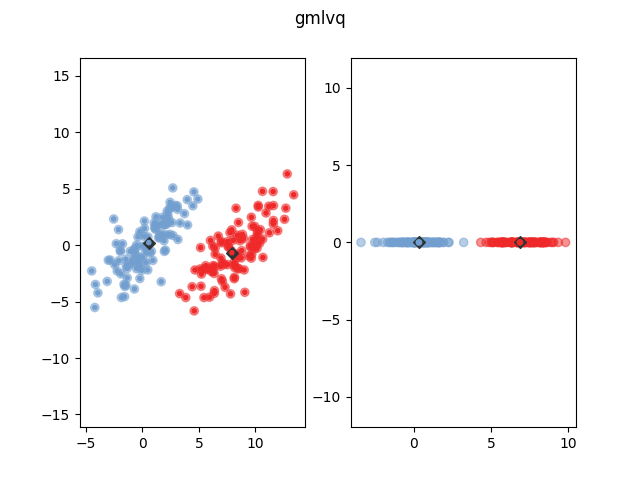
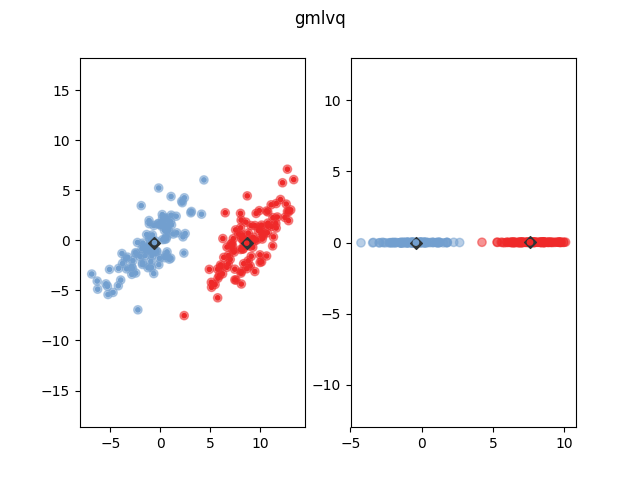
Pushing the docs for revision for branch: master, commit 86f0f8c551693e44304de9ff692452d2f7e50d50

diff --git a/searchindex.js b/searchindex.js
@@ -1,1 +1,1 @@
-Search.setIndex({docnames:["auto_examples/index","auto_examples/plot_benchmark","auto_examples/plot_glvq","auto_examples/plot_gmlvq","auto_examples/plot_grlvq","auto_examples/plot_lgmlvq","glvq","index","modules/generated/glvq.GlvqModel","modules/generated/glvq.GmlvqModel","modules/generated/glvq.GrlvqModel","modules/generated/glvq.LgmlvqModel","modules/glvqapi"],envversion:52,filenames:["auto_examples/index.rst","auto_examples/plot_benchmark.rst","auto_examples/plot_glvq.rst","auto_examples/plot_gmlvq.rst","auto_examples/plot_grlvq.rst","auto_examples/plot_lgmlvq.rst","glvq.rst","index.rst","modules/generated/glvq.GlvqModel.rst","modules/generated/glvq.GmlvqModel.rst","modules/generated/glvq.GrlvqModel.rst","modules/generated/glvq.LgmlvqModel.rst","modules/glvqapi.rst"],objects:{"glvq.GlvqModel":{__init__:[8,1,1,""],fit:[8,1,1,""],get_params:[8,1,1,""],predict:[8,1,1,""],score:[8,1,1,""],set_params:[8,1,1,""]},"glvq.GmlvqModel":{__init__:[9,1,1,""],fit:[9,1,1,""],get_params:[9,1,1,""],predict:[9,1,1,""],project:[9,1,1,""],score:[9,1,1,""],set_params:[9,1,1,""]},"glvq.GrlvqModel":{__init__:[10,1,1,""],fit:[10,1,1,""],get_params:[10,1,1,""],predict:[10,1,1,""],project:[10,1,1,""],score:[10,1,1,""],set_params:[10,1,1,""]},"glvq.LgmlvqModel":{__init__:[11,1,1,""],fit:[11,1,1,""],get_params:[11,1,1,""],predict:[11,1,1,""],project:[11,1,1,""],score:[11,1,1,""],set_params:[11,1,1,""]},glvq:{GlvqModel:[8,0,1,""],GmlvqModel:[9,0,1,""],GrlvqModel:[10,0,1,""],LgmlvqModel:[11,0,1,""]}},objnames:{"0":["py","class","Python class"],"1":["py","method","Python method"]},objtypes:{"0":"py:class","1":"py:method"},terms:{"boolean":[8,9,10,11],"case":6,"class":[2,3,4,5,6,8,9,10,11],"default":[6,8,9,10,11],"float":[8,9,10,11],"function":[6,8,9,10,11],"import":[1,2,3,4,5],"int":[8,9,10,11],"new":6,"return":[6,8,9,10,11],"throw":6,"true":[1,8,9,10,11],"try":1,"while":6,For:6,The:[2,3,4,5,6,8,9,10,11],Use:[8,9,10,11],__doc__:[1,2,3,4,5],__future__:1,__init__:[8,9,10,11],abl:6,about:[8,9,10,11],abov:6,account:6,accuraci:[2,3,4,5,6,8,9,10,11],achiev:6,adapt:6,add:6,advanc:6,after:6,afterward:1,algorithm:[2,3,4,5,6],all:[0,6,10],alpha:1,also:[2,3,4,5,6],aluminium:1,ani:[8,9,10,11],api:7,append:[1,2,3,4,5],appli:6,approxim:6,arrai:[1,3,4,5,8,9,10,11],asarrai:1,assign:6,atsushi:6,attempt:6,attribut:[6,8,9,10,11],auto_examples_jupyt:0,auto_examples_python:0,axi:[1,2,3,4,5,6],barbara:6,base:6,becaus:[1,6],been:6,befor:[8,9,10,11],belong:[2,3,4,5],benchmark:0,better:6,between:[1,9,10,11],beyond:6,bfg:[8,9,10,11],biehl:6,big:[2,3,4,5],bigger:6,blue:[2,3,4,5,6],both:6,bound:6,broyden:6,bunt:6,c_w_:[1,6,8,9,10,11],call:6,can:[1,6],choos:6,chosen:[2,3,4,5],circl:[2,3,4,5,6],classes_:[8,9,10,11],classif:[2,3,4,5,6,8,9,10,11],classifi:[2,3,4,5,6],classwis:11,close:6,closest:6,coars:6,code:[0,1,2,3,4,5],compon:[8,9,10,11],comput:6,construct:6,contain:[6,8,9,10,11],coordin:6,correctli:[6,8,9,10,11],correspond:6,cost:6,cover:[9,10,11],coverd:[1,3,4,5],data:[1,2,3,4,5,6,8,9,10,11],dataset:[1,6],date:1,decomposit:1,deep:[8,9,10,11],def:1,definit:6,degener:[6,9,10,11],depend:6,deriv:6,desir:6,detail:[7,12],determin:[6,9,10,11],differ:[1,2,3,4,5,6,8,9,10,11],dim:[6,9,10,11],dim_:[9,11],dimens:[6,9,10,11],dimensin:6,dimension:7,direct:6,discrimin:6,dismiss:6,dispers:6,displai:[8,9,10,11],dissimilar:6,distanc:6,distinguish:6,distort:6,doe:[8,9,10,11],done:[6,9,10,11],dot:6,download:[0,1,2,3,4,5],dtype:1,each:[1,2,3,4,5,6,8,9,10,11],effect:6,eigenvalu:6,eigenvector:6,elem_set:1,emphas:6,emploi:6,enhanc:6,entri:[8,9,10,11],equal:[1,2,10],equat:6,equival:6,error:6,especi:6,estim:[8,9,10,11],euclidean:6,even:6,exampl:[1,2,3,4,5,6,7],except:1,extend:6,eye:2,fals:[8,9,10,11],featur:[6,8,9,10,11],figur:6,first:6,fit:[1,2,3,4,5,6,8,9,10,11],fit_transform:1,flag:[9,10,11],fletcher:6,float64:1,follow:6,form:[8,9,10,11],formal:6,four:1,fraction:6,from:[1,2,3,4,5,6],full:6,further:12,galleri:[0,1,2,3,4,5],gener:[0,1,8,9,10,11,12],get:[6,8,9,10,11],get_param:[8,9,10,11],give:6,given:[8,9,10,11],global:6,glvq:[0,2,3,4,5,7],glvqmodel:[1,2,6,7,9,10,11],gmlvq:[1,3,7],gmlvqmodel:[1,3,6,7,8,10,11],goe:6,goldfarb:6,good:6,gradient:[8,9,10,11],grlvq:[1,4,7],grlvqmodel:[1,4,6,7,8,9,11],gtol:[8,9,10,11],guid:12,hammer:6,harsh:[8,9,10,11],has:11,have:[6,8,9,10,11],highli:6,how:[2,3,4,5,6],hyper:6,ideal:6,ieee:6,imag:1,implement:[1,7],implicit:6,index:[1,8,9,10,11],individu:6,inform:[6,8,9,10,11],initi:[6,8,9,10,11],initial_matric:11,initial_matrix:9,initial_prototyp:[8,9,10,11],initial_relev:10,input:[6,8,9,10,11],instanc:[8,9,10,11],integ:[6,8,9,10,11],interpret:6,ipynb:[1,2,3,4,5],iter:[8,9,10,11],itself:1,jupyt:[0,1,2,3,4,5],just:6,keiji:6,kohonen:6,label:[6,8,9,10,11],lambda_:[6,10],largest:6,last:[8,9,10,11],latter:[8,9,10,11],lbfg:6,learn:[0,8,9,10,11,12],learn_rat:1,less:[6,8,9,10,11],lgmlvq:[1,5,7],lgmlvqmodel:[1,5,6,7,8,9,10],light:[2,3,4,5],like:[8,9,10,11],limit:6,line:[1,6],linear:6,linearli:6,liram:6,list:[1,8,9,10,11],lmnn:1,local:[0,7,11],log:[6,9,10,11],look:6,low:6,lvq:6,made:6,mai:[6,9,10,11],make:6,mani:6,map:[6,8,9,10,11],marker:[1,2],matlab:6,matplotlib:[1,2,3,4,5],matric:[6,11],matrix:[0,7,9,10,11],max_it:[8,9,10,11],maximum:[8,9,10,11],mean:[8,9,10,11],membership:[8,9,10,11],memori:6,mention:6,method:[8,9,10,11],metric:[6,8,9,10,11],metric_learn:1,michael:6,middl:6,minut:[1,2,3,4,5],model:[1,6,8,9,10,11],more:6,most:6,multi:[6,8,9,10,11],multipl:6,multipli:6,multivariate_norm:[2,3,4,5],must:[8,9,10,11],n_class:[8,9,10,11],n_featur:[8,9,10,11],n_output:[8,9,10,11],n_prototyp:[8,9,10,11],n_sampl:[8,9,10,11],name:[8,9,10,11],nb_featur:9,nb_ppc:[2,3,4,5],nearest:6,need:6,neighbor:6,nest:[8,9,10,11],network:6,neural:6,non:6,none:[8,9,10,11],norm:[8,9,10,11],note:6,notebook:[0,1,2,3,4,5],number:[6,8,9,10,11],numpi:[1,2,3,4,5],object:[8,9,10,11],obtain:6,omega:6,omega_:[6,9],omegas_:[6,11],one:[6,11],ones:[2,3,4,5],onli:6,onto:6,open:1,optim:6,option:[8,9,10,11],order:6,organ:6,orthogon:6,other:6,out:[1,2,3,4,5,6],over:6,own:6,parallel:6,param:[8,9,10,11],paramet:[6,8,9,10,11],pca:1,per:[6,8,9,10,11],perform:6,petra:6,pipelin:[8,9,10,11],place:[6,8,9,10,11],plot2d:[3,4,5],plot:[1,2,3,4,5,6],plot_2d:1,plot_benchmark:1,plot_glvq:2,plot_gmlvq:3,plot_grlvq:4,plot_lgmlvq:5,plt:[1,2,3,4,5],point:[2,3,4,5,6],posit:6,possibl:[6,8,9,10,11],pred:2,predict:[1,2,6,8,9,10,11],prevent:6,print:[1,2,3,4,5,8,9,10,11],print_variance_cov:[9,10,11],problem:6,process:6,product:6,project:[1,2,3,4,5,6,9,10,11],properti:6,prototyp:[1,2,3,4,5,6,8,9,10,11],prototype_idx:11,prototype_label:1,prototypes_per_class:[8,9,10,11],provid:6,purpl:6,pyplot:[1,2,3,4,5],python:[0,1,2,3,4,5],quantiz:[0,8,9,10,11,12],quantizaton:7,random:[2,3,4,5,8,9,10,11],random_st:[8,9,10,11],randomst:[8,9,10,11],rank:[6,9,11],real:[8,9,10,11],rectangular:9,reduc:7,reduct:6,regard:6,regress:[8,9,10,11],regular:[6,9,10,11],regularization_:11,relev:[0,7,9,10,11],repres:6,requir:[8,9,10,11],respect:6,result:6,retriev:6,right:[2,3,4,5,6],row:6,run:[1,2,3,4,5],runtim:6,same:6,sampl:[8,9,10,11],sample_weight:[8,9,10,11],sato:6,scale:6,scatter:[1,2],schleif:6,schneider:6,scipi:6,score:[2,3,4,5,8,9,10,11],script:[1,2,3,4,5],second:[1,2,3,4,5,6],section:12,see:12,seed:[8,9,10,11],seen:6,segment:1,self:[6,8,9,10,11],semi:6,set:[1,2,3,4,5,6,8,9,10,11],set_param:[8,9,10,11],set_titl:1,shanno:6,shape:[8,9,10,11],show:[1,2,3,4,5,6],shown:[2,3,4,5],side:6,significantli:6,similar:6,simpl:[8,9,10,11],sinc:[8,9,10,11],size:[2,3,4,5],sklearn:1,smaller:[2,3,4,5,6],solv:6,some:6,sourc:[0,1,2,3,4,5,8,9,10,11],space:6,spars:6,specifi:[6,8,9,10,11],sphinx:[0,1,2,3,4,5],split:1,squar:[6,9],start:[8,9,10,11],step:[8,9,10,11],strength:[2,3,4,5],string:[8,9,10,11],subobject:[8,9,10,11],subplot:1,subset:[8,9,10,11],success:[8,9,10,11],suffici:6,sum:6,support:6,system:6,tango_color:1,target:[1,6,8,9,10,11],target_p:1,task:6,term:6,termin:[8,9,10,11],test:[8,9,10,11],teuvo:6,than:[6,8,9,10,11],thei:[2,3,4,5,6],therebi:6,thi:[1,2,3,4,5,6,8,9,10,11],thu:6,time:[1,2,3,4,5,6],to_tango_color:1,toolbox:6,total:[1,2,3,4,5],toy_data:[2,3,4,5],toy_label:[2,3,4,5],train:[6,8,9,10,11],transact:6,transform:[1,6],transpar:6,uniti:9,updat:[8,9,10,11],upon:6,use:6,used:[1,6,8,9,10,11],user:[6,12],using:[6,8,9,10,11],valu:[6,8,9,10,11],varianc:[1,3,4,5,9,10,11],variant:6,vector:[0,8,9,10,11,12],version:6,via:6,villmann:6,visual:6,vol:6,w_k:6,wai:6,weight:[6,8,9,10,11],well:[6,8,9,10,11],where:[6,8,9,10,11],which:[2,3,4,5,6,8,9,10,11],with_stat:1,without:[9,10,11],work:[8,9,10,11],would:6,wrt:[8,9,10,11],x_t:1,yamada:6,yellow:6,you:[6,8,9,10,11],your:6,zero:[2,3,4,5,6,9,10,11],zip:0},titles:["Examples","GLVQ Benchmark","Generalized Learning Vector Quantization","Generalized Matrix Learning Vector Quantization","Generalized Relevance Learning Vector Quantization","Localized Generalized Matrix Learning Vector Quantization","Generalized Learning Vector Quantization","Generalized Learning Vector Quantization","<code class=\"docutils literal\"><span class=\"pre\">glvq</span></code>.GlvqModel","<code class=\"docutils literal\"><span class=\"pre\">glvq</span></code>.GmlvqModel","<code class=\"docutils literal\"><span class=\"pre\">glvq</span></code>.GrlvqModel","<code class=\"docutils literal\"><span class=\"pre\">glvq</span></code>.LgmlvqModel","API"],titleterms:{api:12,benchmark:1,detail:6,dimension:6,exampl:0,gener:[2,3,4,5,6,7],glvq:[1,6,8,9,10,11],glvqmodel:8,gmlvq:6,gmlvqmodel:9,grlvq:6,grlvqmodel:10,implement:6,learn:[2,3,4,5,6,7],lgmlvq:6,lgmlvqmodel:11,local:[5,6],matrix:[3,5,6],quantiz:[2,3,4,5,6,7],quantizaton:6,reduc:6,refer:6,relev:[4,6],vector:[2,3,4,5,6,7]}})
+Search.setIndex({docnames:["auto_examples/index","auto_examples/plot_benchmark","auto_examples/plot_glvq","auto_examples/plot_gmlvq","auto_examples/plot_grlvq","auto_examples/plot_lgmlvq","glvq","index","modules/generated/glvq.GlvqModel","modules/generated/glvq.GmlvqModel","modules/generated/glvq.GrlvqModel","modules/generated/glvq.LgmlvqModel","modules/glvqapi"],envversion:52,filenames:["auto_examples/index.rst","auto_examples/plot_benchmark.rst","auto_examples/plot_glvq.rst","auto_examples/plot_gmlvq.rst","auto_examples/plot_grlvq.rst","auto_examples/plot_lgmlvq.rst","glvq.rst","index.rst","modules/generated/glvq.GlvqModel.rst","modules/generated/glvq.GmlvqModel.rst","modules/generated/glvq.GrlvqModel.rst","modules/generated/glvq.LgmlvqModel.rst","modules/glvqapi.rst"],objects:{"glvq.GlvqModel":{__init__:[8,1,1,""],fit:[8,1,1,""],get_params:[8,1,1,""],predict:[8,1,1,""],score:[8,1,1,""],set_params:[8,1,1,""]},"glvq.GmlvqModel":{__init__:[9,1,1,""],fit:[9,1,1,""],get_params:[9,1,1,""],predict:[9,1,1,""],project:[9,1,1,""],score:[9,1,1,""],set_params:[9,1,1,""]},"glvq.GrlvqModel":{__init__:[10,1,1,""],fit:[10,1,1,""],get_params:[10,1,1,""],predict:[10,1,1,""],project:[10,1,1,""],score:[10,1,1,""],set_params:[10,1,1,""]},"glvq.LgmlvqModel":{__init__:[11,1,1,""],fit:[11,1,1,""],get_params:[11,1,1,""],predict:[11,1,1,""],project:[11,1,1,""],score:[11,1,1,""],set_params:[11,1,1,""]},glvq:{GlvqModel:[8,0,1,""],GmlvqModel:[9,0,1,""],GrlvqModel:[10,0,1,""],LgmlvqModel:[11,0,1,""]}},objnames:{"0":["py","class","Python class"],"1":["py","method","Python method"]},objtypes:{"0":"py:class","1":"py:method"},terms:{"boolean":[8,9,10,11],"case":6,"class":[2,3,4,5,6,8,9,10,11],"default":[6,8,9,10,11],"float":[8,9,10,11],"function":[6,8,9,10,11],"import":[1,2,3,4,5],"int":[8,9,10,11],"new":6,"return":[6,8,9,10,11],"throw":6,"true":[1,8,9,10,11],"try":1,"while":6,For:6,The:[1,2,3,4,5,6,8,9,10,11],Use:[8,9,10,11],__doc__:[1,2,3,4,5],__future__:1,__init__:[8,9,10,11],abl:6,about:[8,9,10,11],abov:6,account:6,accuraci:[2,3,4,5,6,8,9,10,11],achiev:6,adapt:6,add:6,advanc:6,after:6,algorithm:6,all:[0,6,10],alpha:[1,2],also:[2,3,4,5,6],aluminium:[1,2],ani:[8,9,10,11],api:7,append:[1,2,3,4,5],appli:6,approxim:6,arrai:[1,3,4,5,8,9,10,11],asarrai:1,assign:6,atsushi:6,attempt:6,attribut:[6,8,9,10,11],auto_examples_jupyt:0,auto_examples_python:0,axi:[1,2,3,4,5,6],barbara:6,base:6,becaus:[1,6],been:6,befor:[8,9,10,11],benchmark:0,better:6,between:[1,9,10,11],beyond:6,bfg:[8,9,10,11],biehl:6,big:[2,3,4,5],bigger:6,black:[2,3,4,5],blue:6,both:6,bound:6,broyden:6,bunt:6,c_w_:[1,2,6,8,9,10,11],call:6,can:[1,6],choos:6,circl:[2,3,4,5,6],classes_:[8,9,10,11],classif:[1,2,3,4,5,6,8,9,10,11],classifi:[2,3,4,5,6],classwis:11,close:6,closest:6,coars:6,code:[0,1,2,3,4,5],compon:[8,9,10,11],comput:6,construct:6,contain:[6,8,9,10,11],coordin:6,correctli:[6,8,9,10,11],correspond:6,cost:6,cover:[9,10,11],coverd:[1,3,4,5],data:[1,2,3,4,5,6,8,9,10,11],dataset:[1,6],decomposit:1,deep:[8,9,10,11],def:1,definit:6,degener:[6,9,10,11],depend:6,deriv:6,desir:6,detail:[7,12],determin:[6,9,10,11],diamond:[2,3,4,5],differ:[1,6,8,9,10,11],dim:[6,9,10,11],dim_:[9,11],dimens:[6,9,10,11],dimensin:6,dimension:7,direct:6,discrimin:6,dismiss:6,dispers:6,displai:[8,9,10,11],dissimilar:6,distanc:6,distinguish:6,distort:6,doe:[8,9,10,11],done:[6,9,10,11],dot:6,download:[0,1,2,3,4,5],dtype:1,each:[1,2,3,4,5,6,8,9,10,11],effect:6,eigenvalu:6,eigenvector:6,elem_set:1,emphas:6,emploi:6,enhanc:6,entri:[8,9,10,11],equal:[1,2,10],equat:6,equival:6,error:6,especi:6,estim:[8,9,10,11],euclidean:6,even:6,exampl:[1,2,3,4,5,6,7],except:1,extend:6,eye:2,fals:[8,9,10,11],featur:[6,8,9,10,11],figur:6,first:6,fit:[1,2,3,4,5,6,8,9,10,11],fit_transform:1,flag:[9,10,11],fletcher:6,float64:1,follow:6,form:[8,9,10,11],formal:6,fraction:6,from:[1,2,3,4,5,6],full:6,further:12,galleri:[0,1,2,3,4,5],gener:[0,1,8,9,10,11,12],get:[6,8,9,10,11],get_param:[8,9,10,11],give:6,given:[8,9,10,11],global:6,glvq:[0,2,3,4,5,7],glvqmodel:[1,2,6,7,9,10,11],gmlvq:[1,3,7],gmlvqmodel:[1,3,6,7,8,10,11],goe:6,goldfarb:6,good:6,gradient:[8,9,10,11],grlvq:[1,4,7],grlvqmodel:[1,4,6,7,8,9,11],gtol:[8,9,10,11],guid:12,hammer:6,harsh:[8,9,10,11],has:11,have:[6,8,9,10,11],highli:6,how:[2,3,4,5,6],hyper:6,ideal:6,ieee:6,imag:1,implement:[1,7],implicit:6,index:[1,8,9,10,11],individu:6,inform:[6,8,9,10,11],initi:[6,8,9,10,11],initial_matric:11,initial_matrix:9,initial_prototyp:[8,9,10,11],initial_relev:10,input:[6,8,9,10,11],insid:[2,3,4,5],instanc:[8,9,10,11],integ:[6,8,9,10,11],interpret:6,ipynb:[1,2,3,4,5],iter:[8,9,10,11],its:1,jupyt:[0,1,2,3,4,5],just:6,keiji:6,kohonen:6,label:[2,3,4,5,6,8,9,10,11],lambda_:[6,10],largest:6,last:[8,9,10,11],latter:[8,9,10,11],lbfg:6,learn:[0,8,9,10,11,12],learn_rat:1,less:[6,8,9,10,11],lgmlvq:[1,5,7],lgmlvqmodel:[1,5,6,7,8,9,10],like:[8,9,10,11],limit:6,line:[1,6],linear:6,linearli:6,liram:6,list:[1,8,9,10,11],lmnn:1,local:[0,7,11],log:[6,9,10,11],look:6,low:6,lvq:6,made:6,mai:[6,9,10,11],make:6,mani:6,map:[6,8,9,10,11],marker:[1,2],matlab:6,matplotlib:[1,2,3,4,5],matric:[6,11],matrix:[0,7,9,10,11],max_it:[8,9,10,11],maximum:[8,9,10,11],mean:[8,9,10,11],membership:[8,9,10,11],memori:6,mention:6,method:[8,9,10,11],metric:[6,8,9,10,11],metric_learn:1,michael:6,middl:6,minut:[1,2,3,4,5],model:[6,8,9,10,11],more:6,most:6,multi:[6,8,9,10,11],multipl:6,multipli:6,multivariate_norm:[2,3,4,5],must:[8,9,10,11],n_class:[8,9,10,11],n_featur:[8,9,10,11],n_output:[8,9,10,11],n_prototyp:[8,9,10,11],n_sampl:[8,9,10,11],name:[8,9,10,11],nb_featur:9,nb_ppc:[2,3,4,5],nearest:6,need:6,neighbor:6,nest:[8,9,10,11],network:6,neural:6,non:6,none:[8,9,10,11],norm:[8,9,10,11],note:6,notebook:[0,1,2,3,4,5],number:[6,8,9,10,11],numpi:[1,2,3,4,5],object:[8,9,10,11],obtain:6,omega:6,omega_:[6,9],omegas_:[6,11],one:[6,11],ones:[2,3,4,5],onli:6,onto:6,open:1,optim:6,option:[8,9,10,11],order:6,organ:6,orthogon:6,other:6,out:[1,2,3,4,5,6],over:6,own:[1,6],parallel:6,param:[8,9,10,11],paramet:[6,8,9,10,11],pca:1,per:[6,8,9,10,11],perform:6,petra:6,pipelin:[8,9,10,11],place:[6,8,9,10,11],plot2d:[3,4,5],plot:[1,2,3,4,5,6],plot_2d:[1,2],plot_benchmark:1,plot_glvq:2,plot_gmlvq:3,plot_grlvq:4,plot_lgmlvq:5,plt:[1,2,3,4,5],point:[2,3,4,5,6],posit:6,possibl:[6,8,9,10,11],pred:2,predict:[1,2,3,4,5,6,8,9,10,11],prevent:6,print:[1,2,3,4,5,8,9,10,11],print_variance_cov:[9,10,11],problem:6,process:6,product:6,project:[1,3,4,5,6,9,10,11],properti:6,prototyp:[1,2,3,4,5,6,8,9,10,11],prototype_idx:11,prototype_label:1,prototypes_per_class:[8,9,10,11],provid:6,purpl:6,pyplot:[1,2,3,4,5],python:[0,1,2,3,4,5],quantiz:[0,8,9,10,11,12],quantizaton:7,random:[2,3,4,5,8,9,10,11],random_st:[8,9,10,11],randomst:[8,9,10,11],rank:[6,9,11],real:[8,9,10,11],rectangular:9,reduc:7,reduct:6,regard:6,regress:[8,9,10,11],regular:[6,9,10,11],regularization_:11,relev:[0,7,9,10,11],repres:6,requir:[8,9,10,11],respect:6,result:6,retriev:6,right:[3,4,5,6],row:6,run:[1,2,3,4,5],runtim:6,same:6,sampl:[8,9,10,11],sample_weight:[8,9,10,11],sato:6,scale:6,scatter:[1,2],schleif:6,schneider:6,scipi:6,score:[2,3,4,5,8,9,10,11],script:[1,2,3,4,5],second:[1,2,3,4,5,6],section:12,see:12,seed:[8,9,10,11],seen:6,segment:1,self:[6,8,9,10,11],semi:6,set:[1,6,8,9,10,11],set_param:[8,9,10,11],set_titl:1,shanno:6,shape:[8,9,10,11],show:[1,2,3,4,5,6],shown:[3,4,5],side:6,significantli:6,similar:6,simpl:[8,9,10,11],sinc:[8,9,10,11],size:[2,3,4,5],sklearn:1,small:[2,3,4,5],smaller:[2,3,4,5,6],solv:6,some:6,sourc:[0,1,2,3,4,5,8,9,10,11],space:6,spars:6,specifi:[6,8,9,10,11],sphinx:[0,1,2,3,4,5],split:1,squar:[6,9],start:[8,9,10,11],step:[8,9,10,11],string:[8,9,10,11],subobject:[8,9,10,11],subplot:1,subset:[8,9,10,11],success:[8,9,10,11],suffici:6,sum:6,support:6,system:6,tango_color:[1,2],target:[1,2,3,4,5,6,8,9,10,11],target_p:1,task:6,term:6,termin:[8,9,10,11],test:[1,8,9,10,11],teuvo:6,than:[6,8,9,10,11],thei:6,therebi:6,thi:[1,2,3,4,5,6,8,9,10,11],thu:6,time:[1,2,3,4,5,6],to_tango_color:[1,2],toolbox:6,total:[1,2,3,4,5],toy_data:[2,3,4,5],toy_label:[2,3,4,5],train:[1,6,8,9,10,11],transact:6,transform:[1,6],transpar:6,uniti:9,updat:[8,9,10,11],upon:6,use:6,used:[1,6,8,9,10,11],user:[6,12],using:[6,8,9,10,11],valu:[6,8,9,10,11],varianc:[1,3,4,5,9,10,11],variant:6,vector:[0,8,9,10,11,12],version:6,via:6,villmann:6,visual:6,vol:6,w_k:6,wai:6,weight:[6,8,9,10,11],well:[6,8,9,10,11],where:[6,8,9,10,11],which:[2,3,4,5,6,8,9,10,11],with_stat:1,without:[9,10,11],work:[8,9,10,11],would:6,wrt:[8,9,10,11],x_t:1,yamada:6,yellow:6,you:[6,8,9,10,11],your:6,zero:[2,3,4,5,6,9,10,11],zip:0},titles:["Examples","GLVQ Benchmark","Generalized Learning Vector Quantization","Generalized Matrix Learning Vector Quantization","Generalized Relevance Learning Vector Quantization","Localized Generalized Matrix Learning Vector Quantization","Generalized Learning Vector Quantization","Generalized Learning Vector Quantization","<code class=\"docutils literal\"><span class=\"pre\">glvq</span></code>.GlvqModel","<code class=\"docutils literal\"><span class=\"pre\">glvq</span></code>.GmlvqModel","<code class=\"docutils literal\"><span class=\"pre\">glvq</span></code>.GrlvqModel","<code class=\"docutils literal\"><span class=\"pre\">glvq</span></code>.LgmlvqModel","API"],titleterms:{api:12,benchmark:1,detail:6,dimension:6,exampl:0,gener:[2,3,4,5,6,7],glvq:[1,6,8,9,10,11],glvqmodel:8,gmlvq:6,gmlvqmodel:9,grlvq:6,grlvqmodel:10,implement:6,learn:[2,3,4,5,6,7],lgmlvq:6,lgmlvqmodel:11,local:[5,6],matrix:[3,5,6],quantiz:[2,3,4,5,6,7],quantizaton:6,reduc:6,refer:6,relev:[4,6],vector:[2,3,4,5,6,7]}})

diff --git a/auto_examples/plot_glvq.html b/auto_examples/plot_glvq.html
@@ -171,12 +171,10 @@
             
   <div class="section" id="generalized-learning-vector-quantization">
 <span id="sphx-glr-auto-examples-plot-glvq-py"></span><h1>Generalized Learning Vector Quantization<a class="headerlink" href="#generalized-learning-vector-quantization" title="Permalink to this headline">¶</a></h1>
-<p>This example shows the different glvq algorithms and how they project
-different data sets. The data sets are chosen to show the strength of each
-algorithm. Each plot shows for each data point which class it belongs to
-(big circle) and which class it was classified to (smaller circle). It also
-shows the prototypes (light blue circle). The projected data is shown in the
-right plot.</p>
+<p>This example shows how GLVQ classifies.
+The plot shows the target class of each data point
+(big circle) and which class was predicted (smaller circle). It also
+shows the prototypes (black diamond) and their labels (small point inside the diamond).</p>
 <img alt="../_images/sphx_glr_plot_glvq_001.png" class="align-center" src="../_images/sphx_glr_plot_glvq_001.png" />
 <p class="sphx-glr-script-out">Out:</p>
 <div class="sphx-glr-script-out highlight-default"><div class="highlight"><pre><span></span><span class="n">GLVQ</span><span class="p">:</span>
@@ -190,6 +188,7 @@ right plot.</p>
 <span class="kn">import</span> <span class="nn">matplotlib.pyplot</span> <span class="kn">as</span> <span class="nn">plt</span>
 
 <span class="kn">from</span> <span class="nn">glvq</span> <span class="kn">import</span> <span class="n">GlvqModel</span>
+<span class="kn">from</span> <span class="nn">glvq.plot_2d</span> <span class="kn">import</span> <span class="n">to_tango_colors</span><span class="p">,</span> <span class="n">tango_color</span>
 
 <span class="k">print</span><span class="p">(</span><span class="vm">__doc__</span><span class="p">)</span>
 
@@ -204,16 +203,19 @@ right plot.</p>
 <span class="n">glvq</span><span class="o">.</span><span class="n">fit</span><span class="p">(</span><span class="n">toy_data</span><span class="p">,</span> <span class="n">toy_label</span><span class="p">)</span>
 <span class="n">pred</span> <span class="o">=</span> <span class="n">glvq</span><span class="o">.</span><span class="n">predict</span><span class="p">(</span><span class="n">toy_data</span><span class="p">)</span>
 
-<span class="n">plt</span><span class="o">.</span><span class="n">scatter</span><span class="p">(</span><span class="n">toy_data</span><span class="p">[:,</span> <span class="mi">0</span><span class="p">],</span> <span class="n">toy_data</span><span class="p">[:,</span> <span class="mi">1</span><span class="p">],</span> <span class="n">c</span><span class="o">=</span><span class="n">toy_label</span><span class="p">)</span>
-<span class="n">plt</span><span class="o">.</span><span class="n">scatter</span><span class="p">(</span><span class="n">toy_data</span><span class="p">[:,</span> <span class="mi">0</span><span class="p">],</span> <span class="n">toy_data</span><span class="p">[:,</span> <span class="mi">1</span><span class="p">],</span> <span class="n">c</span><span class="o">=</span><span class="n">pred</span><span class="p">,</span> <span class="n">marker</span><span class="o">=</span><span class="s1">&#39;.&#39;</span><span class="p">)</span>
-<span class="n">plt</span><span class="o">.</span><span class="n">scatter</span><span class="p">(</span><span class="n">glvq</span><span class="o">.</span><span class="n">w_</span><span class="p">[:,</span> <span class="mi">0</span><span class="p">],</span> <span class="n">glvq</span><span class="o">.</span><span class="n">w_</span><span class="p">[:,</span> <span class="mi">1</span><span class="p">])</span>
+<span class="n">plt</span><span class="o">.</span><span class="n">scatter</span><span class="p">(</span><span class="n">toy_data</span><span class="p">[:,</span> <span class="mi">0</span><span class="p">],</span> <span class="n">toy_data</span><span class="p">[:,</span> <span class="mi">1</span><span class="p">],</span> <span class="n">c</span><span class="o">=</span><span class="n">to_tango_colors</span><span class="p">(</span><span class="n">toy_label</span><span class="p">),</span> <span class="n">alpha</span><span class="o">=</span><span class="mf">0.5</span><span class="p">)</span>
+<span class="n">plt</span><span class="o">.</span><span class="n">scatter</span><span class="p">(</span><span class="n">toy_data</span><span class="p">[:,</span> <span class="mi">0</span><span class="p">],</span> <span class="n">toy_data</span><span class="p">[:,</span> <span class="mi">1</span><span class="p">],</span> <span class="n">c</span><span class="o">=</span><span class="n">to_tango_colors</span><span class="p">(</span><span class="n">pred</span><span class="p">),</span> <span class="n">marker</span><span class="o">=</span><span class="s1">&#39;.&#39;</span><span class="p">)</span>
+<span class="n">plt</span><span class="o">.</span><span class="n">scatter</span><span class="p">(</span><span class="n">glvq</span><span class="o">.</span><span class="n">w_</span><span class="p">[:,</span> <span class="mi">0</span><span class="p">],</span> <span class="n">glvq</span><span class="o">.</span><span class="n">w_</span><span class="p">[:,</span> <span class="mi">1</span><span class="p">],</span>
+            <span class="n">c</span><span class="o">=</span><span class="n">tango_color</span><span class="p">(</span><span class="s1">&#39;aluminium&#39;</span><span class="p">,</span> <span class="mi">5</span><span class="p">),</span> <span class="n">marker</span><span class="o">=</span><span class="s1">&#39;D&#39;</span><span class="p">)</span>
+<span class="n">plt</span><span class="o">.</span><span class="n">scatter</span><span class="p">(</span><span class="n">glvq</span><span class="o">.</span><span class="n">w_</span><span class="p">[:,</span> <span class="mi">0</span><span class="p">],</span> <span class="n">glvq</span><span class="o">.</span><span class="n">w_</span><span class="p">[:,</span> <span class="mi">1</span><span class="p">],</span>
+            <span class="n">c</span><span class="o">=</span><span class="n">to_tango_colors</span><span class="p">(</span><span class="n">glvq</span><span class="o">.</span><span class="n">c_w_</span><span class="p">,</span> <span class="mi">0</span><span class="p">),</span> <span class="n">marker</span><span class="o">=</span><span class="s1">&#39;.&#39;</span><span class="p">)</span>
 <span class="n">plt</span><span class="o">.</span><span class="n">axis</span><span class="p">(</span><span class="s1">&#39;equal&#39;</span><span class="p">)</span>
 
 <span class="k">print</span><span class="p">(</span><span class="s1">&#39;classification accuracy:&#39;</span><span class="p">,</span> <span class="n">glvq</span><span class="o">.</span><span class="n">score</span><span class="p">(</span><span class="n">toy_data</span><span class="p">,</span> <span class="n">toy_label</span><span class="p">))</span>
 <span class="n">plt</span><span class="o">.</span><span class="n">show</span><span class="p">()</span>
 </pre></div>
 </div>
-<p><strong>Total running time of the script:</strong> ( 0 minutes  0.058 seconds)</p>
+<p><strong>Total running time of the script:</strong> ( 0 minutes  0.061 seconds)</p>
 <div class="sphx-glr-footer docutils container">
 <div class="sphx-glr-download docutils container">
 <a class="reference download internal" href="../_downloads/plot_glvq.py" download=""><code class="xref download docutils literal"><span class="pre">Download</span> <span class="pre">Python</span> <span class="pre">source</span> <span class="pre">code:</span> <span class="pre">plot_glvq.py</span></code></a></div>

diff --git a/auto_examples/plot_benchmark.html b/auto_examples/plot_benchmark.html
@@ -171,14 +171,14 @@
             
   <div class="section" id="glvq-benchmark">
 <span id="sphx-glr-auto-examples-plot-benchmark-py"></span><h1>GLVQ Benchmark<a class="headerlink" href="#glvq-benchmark" title="Permalink to this headline">¶</a></h1>
-<p>This example shows the different between the four glvq implementations and lmnn.
-Each model is fitted with the image segmentation dataset. Afterwards the data is
-projected/transformed and plotted. Because GLVQ can’t project the date by itself
+<p>This example shows the differences between the 4 different GLVQ implementations and LMNN.
+The Image Segmentation dataset is used for training and test. Each plot shows the projection
+and classification from each implementation. Because Glvq can’t project the data on its own
 a PCA is used.</p>
 <img alt="../_images/sphx_glr_plot_benchmark_001.png" class="align-center" src="../_images/sphx_glr_plot_benchmark_001.png" />
 <p class="sphx-glr-script-out">Out:</p>
-<div class="sphx-glr-script-out highlight-default"><div class="highlight"><pre><span></span><span class="p">(</span><span class="s1">&#39;variance coverd by projection:&#39;</span><span class="p">,</span> <span class="mf">97.18238963774769</span><span class="p">)</span>
-<span class="p">(</span><span class="s1">&#39;variance coverd by projection:&#39;</span><span class="p">,</span> <span class="mf">99.02605980229788</span><span class="p">)</span>
+<div class="sphx-glr-script-out highlight-default"><div class="highlight"><pre><span></span><span class="p">(</span><span class="s1">&#39;variance coverd by projection:&#39;</span><span class="p">,</span> <span class="mf">96.096538888561284</span><span class="p">)</span>
+<span class="p">(</span><span class="s1">&#39;variance coverd by projection:&#39;</span><span class="p">,</span> <span class="mf">97.163281489791487</span><span class="p">)</span>
 </pre></div>
 </div>
 <div class="line-block">
@@ -194,6 +194,7 @@ a PCA is used.</p>
 <span class="kn">from</span> <span class="nn">glvq.plot_2d</span> <span class="kn">import</span> <span class="n">to_tango_colors</span><span class="p">,</span> <span class="n">tango_color</span>
 
 <span class="k">print</span><span class="p">(</span><span class="vm">__doc__</span><span class="p">)</span>
+
 
 <span class="k">def</span> <span class="nf">plot</span><span class="p">(</span><span class="n">data</span><span class="p">,</span> <span class="n">target</span><span class="p">,</span> <span class="n">target_p</span><span class="p">,</span> <span class="n">prototype</span><span class="p">,</span> <span class="n">prototype_label</span><span class="p">,</span> <span class="n">p</span><span class="p">):</span>
     <span class="n">p</span><span class="o">.</span><span class="n">scatter</span><span class="p">(</span><span class="n">data</span><span class="p">[:,</span> <span class="mi">0</span><span class="p">],</span> <span class="n">data</span><span class="p">[:,</span> <span class="mi">1</span><span class="p">],</span> <span class="n">c</span><span class="o">=</span><span class="n">to_tango_colors</span><span class="p">(</span><span class="n">target</span><span class="p">,</span> <span class="mi">0</span><span class="p">),</span> <span class="n">alpha</span><span class="o">=</span><span class="mf">0.5</span><span class="p">)</span>
@@ -272,7 +273,7 @@ a PCA is used.</p>
 <span class="n">plt</span><span class="o">.</span><span class="n">show</span><span class="p">()</span>
 </pre></div>
 </div>
-<p><strong>Total running time of the script:</strong> ( 0 minutes  19.423 seconds)</p>
+<p><strong>Total running time of the script:</strong> ( 0 minutes  15.041 seconds)</p>
 <div class="sphx-glr-footer docutils container">
 <div class="sphx-glr-download docutils container">
 <a class="reference download internal" href="../_downloads/plot_benchmark.py" download=""><code class="xref download docutils literal"><span class="pre">Download</span> <span class="pre">Python</span> <span class="pre">source</span> <span class="pre">code:</span> <span class="pre">plot_benchmark.py</span></code></a></div>

diff --git a/auto_examples/plot_lgmlvq.html b/auto_examples/plot_lgmlvq.html
@@ -171,18 +171,17 @@
             
   <div class="section" id="localized-generalized-matrix-learning-vector-quantization">
 <span id="sphx-glr-auto-examples-plot-lgmlvq-py"></span><h1>Localized Generalized Matrix Learning Vector Quantization<a class="headerlink" href="#localized-generalized-matrix-learning-vector-quantization" title="Permalink to this headline">¶</a></h1>
-<p>This example shows the different glvq algorithms and how they project
-different data sets. The data sets are chosen to show the strength of each
-algorithm. Each plot shows for each data point which class it belongs to
-(big circle) and which class it was classified to (smaller circle). It also
-shows the prototypes (light blue circle). The projected data is shown in the
-right plot.</p>
+<p>This example shows how LGMLVQ projects and classifies.
+The plot shows the target class of each data point
+(big circle) and which class was predicted (smaller circle). It also
+shows the prototypes (black diamond) and their labels (small point inside the diamond).
+The projected data is shown in the right plot.</p>
 <img alt="../_images/sphx_glr_plot_lgmlvq_001.png" class="align-center" src="../_images/sphx_glr_plot_lgmlvq_001.png" />
 <p class="sphx-glr-script-out">Out:</p>
 <div class="sphx-glr-script-out highlight-default"><div class="highlight"><pre><span></span><span class="n">LGMLVQ</span><span class="p">:</span>
 <span class="p">(</span><span class="s1">&#39;variance coverd by projection:&#39;</span><span class="p">,</span> <span class="mf">100.0</span><span class="p">)</span>
 <span class="p">(</span><span class="s1">&#39;variance coverd by projection:&#39;</span><span class="p">,</span> <span class="mf">100.0</span><span class="p">)</span>
-<span class="p">(</span><span class="s1">&#39;classification accuracy:&#39;</span><span class="p">,</span> <span class="mf">0.77000000000000002</span><span class="p">)</span>
+<span class="p">(</span><span class="s1">&#39;classification accuracy:&#39;</span><span class="p">,</span> <span class="mf">0.79500000000000004</span><span class="p">)</span>
 </pre></div>
 </div>
 <div class="line-block">
@@ -212,7 +211,7 @@ right plot.</p>
 <span class="n">plt</span><span class="o">.</span><span class="n">show</span><span class="p">()</span>
 </pre></div>
 </div>
-<p><strong>Total running time of the script:</strong> ( 0 minutes  0.291 seconds)</p>
+<p><strong>Total running time of the script:</strong> ( 0 minutes  0.286 seconds)</p>
 <div class="sphx-glr-footer docutils container">
 <div class="sphx-glr-download docutils container">
 <a class="reference download internal" href="../_downloads/plot_lgmlvq.py" download=""><code class="xref download docutils literal"><span class="pre">Download</span> <span class="pre">Python</span> <span class="pre">source</span> <span class="pre">code:</span> <span class="pre">plot_lgmlvq.py</span></code></a></div>

diff --git a/auto_examples/plot_grlvq.html b/auto_examples/plot_grlvq.html
@@ -171,17 +171,16 @@
             
   <div class="section" id="generalized-relevance-learning-vector-quantization">
 <span id="sphx-glr-auto-examples-plot-grlvq-py"></span><h1>Generalized Relevance Learning Vector Quantization<a class="headerlink" href="#generalized-relevance-learning-vector-quantization" title="Permalink to this headline">¶</a></h1>
-<p>This example shows the different glvq algorithms and how they project
-different data sets. The data sets are chosen to show the strength of each
-algorithm. Each plot shows for each data point which class it belongs to
-(big circle) and which class it was classified to (smaller circle). It also
-shows the prototypes (light blue circle). The projected data is shown in the
-right plot.</p>
+<p>This example shows how GRLVQ projects and classifies.
+The plot shows the target class of each data point
+(big circle) and which class was predicted (smaller circle). It also
+shows the prototypes (black diamond) and their labels (small point inside the diamond).
+The projected data is shown in the right plot.</p>
 <img alt="../_images/sphx_glr_plot_grlvq_001.png" class="align-center" src="../_images/sphx_glr_plot_grlvq_001.png" />
 <p class="sphx-glr-script-out">Out:</p>
 <div class="sphx-glr-script-out highlight-default"><div class="highlight"><pre><span></span><span class="n">GRLVQ</span><span class="p">:</span>
 <span class="p">(</span><span class="s1">&#39;variance coverd by projection:&#39;</span><span class="p">,</span> <span class="mf">100.0</span><span class="p">)</span>
-<span class="p">(</span><span class="s1">&#39;classification accuracy:&#39;</span><span class="p">,</span> <span class="mf">1.0</span><span class="p">)</span>
+<span class="p">(</span><span class="s1">&#39;classification accuracy:&#39;</span><span class="p">,</span> <span class="mf">0.98999999999999999</span><span class="p">)</span>
 </pre></div>
 </div>
 <div class="line-block">
@@ -212,7 +211,7 @@ right plot.</p>
 <span class="n">plt</span><span class="o">.</span><span class="n">show</span><span class="p">()</span>
 </pre></div>
 </div>
-<p><strong>Total running time of the script:</strong> ( 0 minutes  0.154 seconds)</p>
+<p><strong>Total running time of the script:</strong> ( 0 minutes  0.158 seconds)</p>
 <div class="sphx-glr-footer docutils container">
 <div class="sphx-glr-download docutils container">
 <a class="reference download internal" href="../_downloads/plot_grlvq.py" download=""><code class="xref download docutils literal"><span class="pre">Download</span> <span class="pre">Python</span> <span class="pre">source</span> <span class="pre">code:</span> <span class="pre">plot_grlvq.py</span></code></a></div>

diff --git a/auto_examples/plot_gmlvq.html b/auto_examples/plot_gmlvq.html
@@ -171,12 +171,11 @@
             
   <div class="section" id="generalized-matrix-learning-vector-quantization">
 <span id="sphx-glr-auto-examples-plot-gmlvq-py"></span><h1>Generalized Matrix Learning Vector Quantization<a class="headerlink" href="#generalized-matrix-learning-vector-quantization" title="Permalink to this headline">¶</a></h1>
-<p>This example shows the different glvq algorithms and how they project
-different data sets. The data sets are chosen to show the strength of each
-algorithm. Each plot shows for each data point which class it belongs to
-(big circle) and which class it was classified to (smaller circle). It also
-shows the prototypes (light blue circle). The projected data is shown in the
-right plot.</p>
+<p>This example shows how GMLVQ projects and classifies.
+The plot shows the target class of each data point
+(big circle) and which class was predicted (smaller circle). It also
+shows the prototypes (black diamond) and their labels (small point inside the diamond).
+The projected data is shown in the right plot.</p>
 <img alt="../_images/sphx_glr_plot_gmlvq_001.png" class="align-center" src="../_images/sphx_glr_plot_gmlvq_001.png" />
 <p class="sphx-glr-script-out">Out:</p>
 <div class="sphx-glr-script-out highlight-default"><div class="highlight"><pre><span></span><span class="n">GMLVQ</span><span class="p">:</span>
@@ -211,7 +210,7 @@ right plot.</p>
 <span class="n">plt</span><span class="o">.</span><span class="n">show</span><span class="p">()</span>
 </pre></div>
 </div>
-<p><strong>Total running time of the script:</strong> ( 0 minutes  0.339 seconds)</p>
+<p><strong>Total running time of the script:</strong> ( 0 minutes  0.312 seconds)</p>
 <div class="sphx-glr-footer docutils container">
 <div class="sphx-glr-download docutils container">
 <a class="reference download internal" href="../_downloads/plot_gmlvq.py" download=""><code class="xref download docutils literal"><span class="pre">Download</span> <span class="pre">Python</span> <span class="pre">source</span> <span class="pre">code:</span> <span class="pre">plot_gmlvq.py</span></code></a></div>

diff --git a/_modules/glvq/lgmlvq.html b/_modules/glvq/lgmlvq.html
@@ -496,7 +496,10 @@
         <span class="k">if</span> <span class="n">psis</span> <span class="ow">is</span> <span class="kc">None</span><span class="p">:</span>
             <span class="n">psis</span> <span class="o">=</span> <span class="bp">self</span><span class="o">.</span><span class="n">omegas_</span>
         <span class="n">nb_samples</span> <span class="o">=</span> <span class="n">x</span><span class="o">.</span><span class="n">shape</span><span class="p">[</span><span class="mi">0</span><span class="p">]</span>
-        <span class="n">nb_prototypes</span> <span class="o">=</span> <span class="n">w</span><span class="o">.</span><span class="n">shape</span><span class="p">[</span><span class="mi">0</span><span class="p">]</span>
+        <span class="k">if</span> <span class="nb">len</span><span class="p">(</span><span class="n">w</span><span class="o">.</span><span class="n">shape</span><span class="p">)</span> <span class="ow">is</span> <span class="mi">1</span><span class="p">:</span>
+            <span class="n">nb_prototypes</span> <span class="o">=</span> <span class="mi">1</span>
+        <span class="k">else</span><span class="p">:</span>
+            <span class="n">nb_prototypes</span> <span class="o">=</span> <span class="n">w</span><span class="o">.</span><span class="n">shape</span><span class="p">[</span><span class="mi">0</span><span class="p">]</span>
         <span class="n">distance</span> <span class="o">=</span> <span class="n">np</span><span class="o">.</span><span class="n">zeros</span><span class="p">([</span><span class="n">nb_prototypes</span><span class="p">,</span> <span class="n">nb_samples</span><span class="p">])</span>
         <span class="k">if</span> <span class="nb">len</span><span class="p">(</span><span class="n">psis</span><span class="p">)</span> <span class="o">==</span> <span class="n">nb_prototypes</span><span class="p">:</span>
             <span class="k">for</span> <span class="n">i</span> <span class="ow">in</span> <span class="nb">range</span><span class="p">(</span><span class="n">nb_prototypes</span><span class="p">):</span>

diff --git a/_downloads/plot_glvq.py b/_downloads/plot_glvq.py
@@ -2,18 +2,17 @@
 ========================================
 Generalized Learning Vector Quantization
 ========================================
-This example shows the different glvq algorithms and how they project
-different data sets. The data sets are chosen to show the strength of each
-algorithm. Each plot shows for each data point which class it belongs to
-(big circle) and which class it was classified to (smaller circle). It also
-shows the prototypes (light blue circle). The projected data is shown in the
-right plot.
+This example shows how GLVQ classifies.
+The plot shows the target class of each data point
+(big circle) and which class was predicted (smaller circle). It also
+shows the prototypes (black diamond) and their labels (small point inside the diamond).
 
 """
 import numpy as np
 import matplotlib.pyplot as plt
 
 from glvq import GlvqModel
+from glvq.plot_2d import to_tango_colors, tango_color
 
 print(__doc__)
 
@@ -28,9 +27,12 @@ glvq = GlvqModel()
 glvq.fit(toy_data, toy_label)
 pred = glvq.predict(toy_data)
 
-plt.scatter(toy_data[:, 0], toy_data[:, 1], c=toy_label)
-plt.scatter(toy_data[:, 0], toy_data[:, 1], c=pred, marker='.')
-plt.scatter(glvq.w_[:, 0], glvq.w_[:, 1])
+plt.scatter(toy_data[:, 0], toy_data[:, 1], c=to_tango_colors(toy_label), alpha=0.5)
+plt.scatter(toy_data[:, 0], toy_data[:, 1], c=to_tango_colors(pred), marker='.')
+plt.scatter(glvq.w_[:, 0], glvq.w_[:, 1],
+            c=tango_color('aluminium', 5), marker='D')
+plt.scatter(glvq.w_[:, 0], glvq.w_[:, 1],
+            c=to_tango_colors(glvq.c_w_, 0), marker='.')
 plt.axis('equal')
 
 print('classification accuracy:', glvq.score(toy_data, toy_label))

diff --git a/_downloads/plot_lgmlvq.py b/_downloads/plot_lgmlvq.py
@@ -2,12 +2,11 @@
 =========================================================
 Localized Generalized Matrix Learning Vector Quantization
 =========================================================
-This example shows the different glvq algorithms and how they project
-different data sets. The data sets are chosen to show the strength of each
-algorithm. Each plot shows for each data point which class it belongs to
-(big circle) and which class it was classified to (smaller circle). It also
-shows the prototypes (light blue circle). The projected data is shown in the
-right plot.
+This example shows how LGMLVQ projects and classifies.
+The plot shows the target class of each data point
+(big circle) and which class was predicted (smaller circle). It also
+shows the prototypes (black diamond) and their labels (small point inside the diamond).
+The projected data is shown in the right plot.
 
 """
 import matplotlib.pyplot as plt

diff --git a/_downloads/plot_benchmark.py b/_downloads/plot_benchmark.py
@@ -2,9 +2,9 @@
 ==============
 GLVQ Benchmark
 ==============
-This example shows the different between the four glvq implementations and lmnn.
-Each model is fitted with the image segmentation dataset. Afterwards the data is
-projected/transformed and plotted. Because GLVQ can't project the date by itself
+This example shows the differences between the 4 different GLVQ implementations and LMNN.
+The Image Segmentation dataset is used for training and test. Each plot shows the projection
+and classification from each implementation. Because Glvq can't project the data on its own
 a PCA is used.
 
 """
@@ -18,6 +18,7 @@ from glvq import GlvqModel, GrlvqModel, LgmlvqModel, GmlvqModel
 from glvq.plot_2d import to_tango_colors, tango_color
 
 print(__doc__)
+
 
 def plot(data, target, target_p, prototype, prototype_label, p):
     p.scatter(data[:, 0], data[:, 1], c=to_tango_colors(target, 0), alpha=0.5)

diff --git a/_downloads/plot_gmlvq.py b/_downloads/plot_gmlvq.py
@@ -2,12 +2,11 @@
 ===============================================
 Generalized Matrix Learning Vector Quantization
 ===============================================
-This example shows the different glvq algorithms and how they project
-different data sets. The data sets are chosen to show the strength of each
-algorithm. Each plot shows for each data point which class it belongs to
-(big circle) and which class it was classified to (smaller circle). It also
-shows the prototypes (light blue circle). The projected data is shown in the
-right plot.
+This example shows how GMLVQ projects and classifies.
+The plot shows the target class of each data point
+(big circle) and which class was predicted (smaller circle). It also
+shows the prototypes (black diamond) and their labels (small point inside the diamond).
+The projected data is shown in the right plot.
 
 """
 import matplotlib.pyplot as plt

diff --git a/_downloads/plot_grlvq.py b/_downloads/plot_grlvq.py
@@ -2,12 +2,11 @@
 ==================================================
 Generalized Relevance Learning Vector Quantization
 ==================================================
-This example shows the different glvq algorithms and how they project
-different data sets. The data sets are chosen to show the strength of each
-algorithm. Each plot shows for each data point which class it belongs to
-(big circle) and which class it was classified to (smaller circle). It also
-shows the prototypes (light blue circle). The projected data is shown in the
-right plot.
+This example shows how GRLVQ projects and classifies.
+The plot shows the target class of each data point
+(big circle) and which class was predicted (smaller circle). It also
+shows the prototypes (black diamond) and their labels (small point inside the diamond).
+The projected data is shown in the right plot.
 
 """
 import numpy as np
